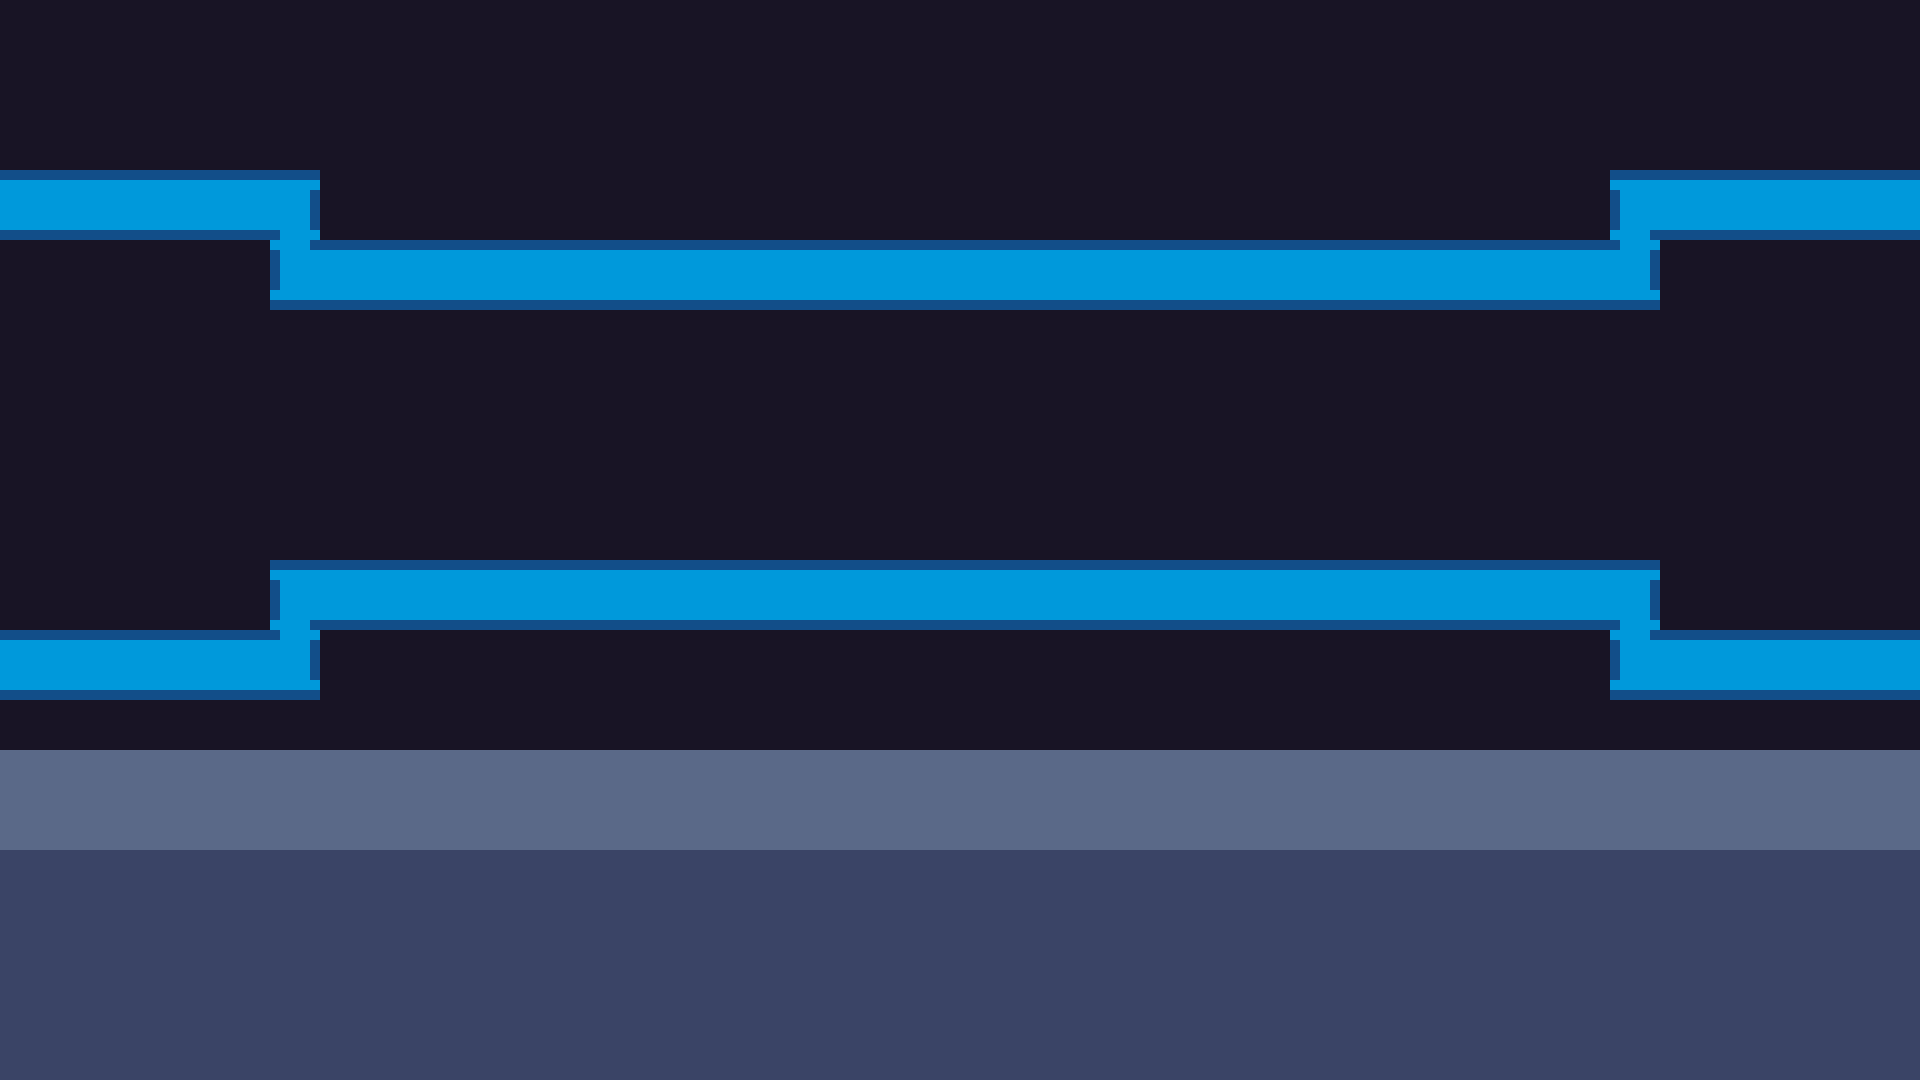
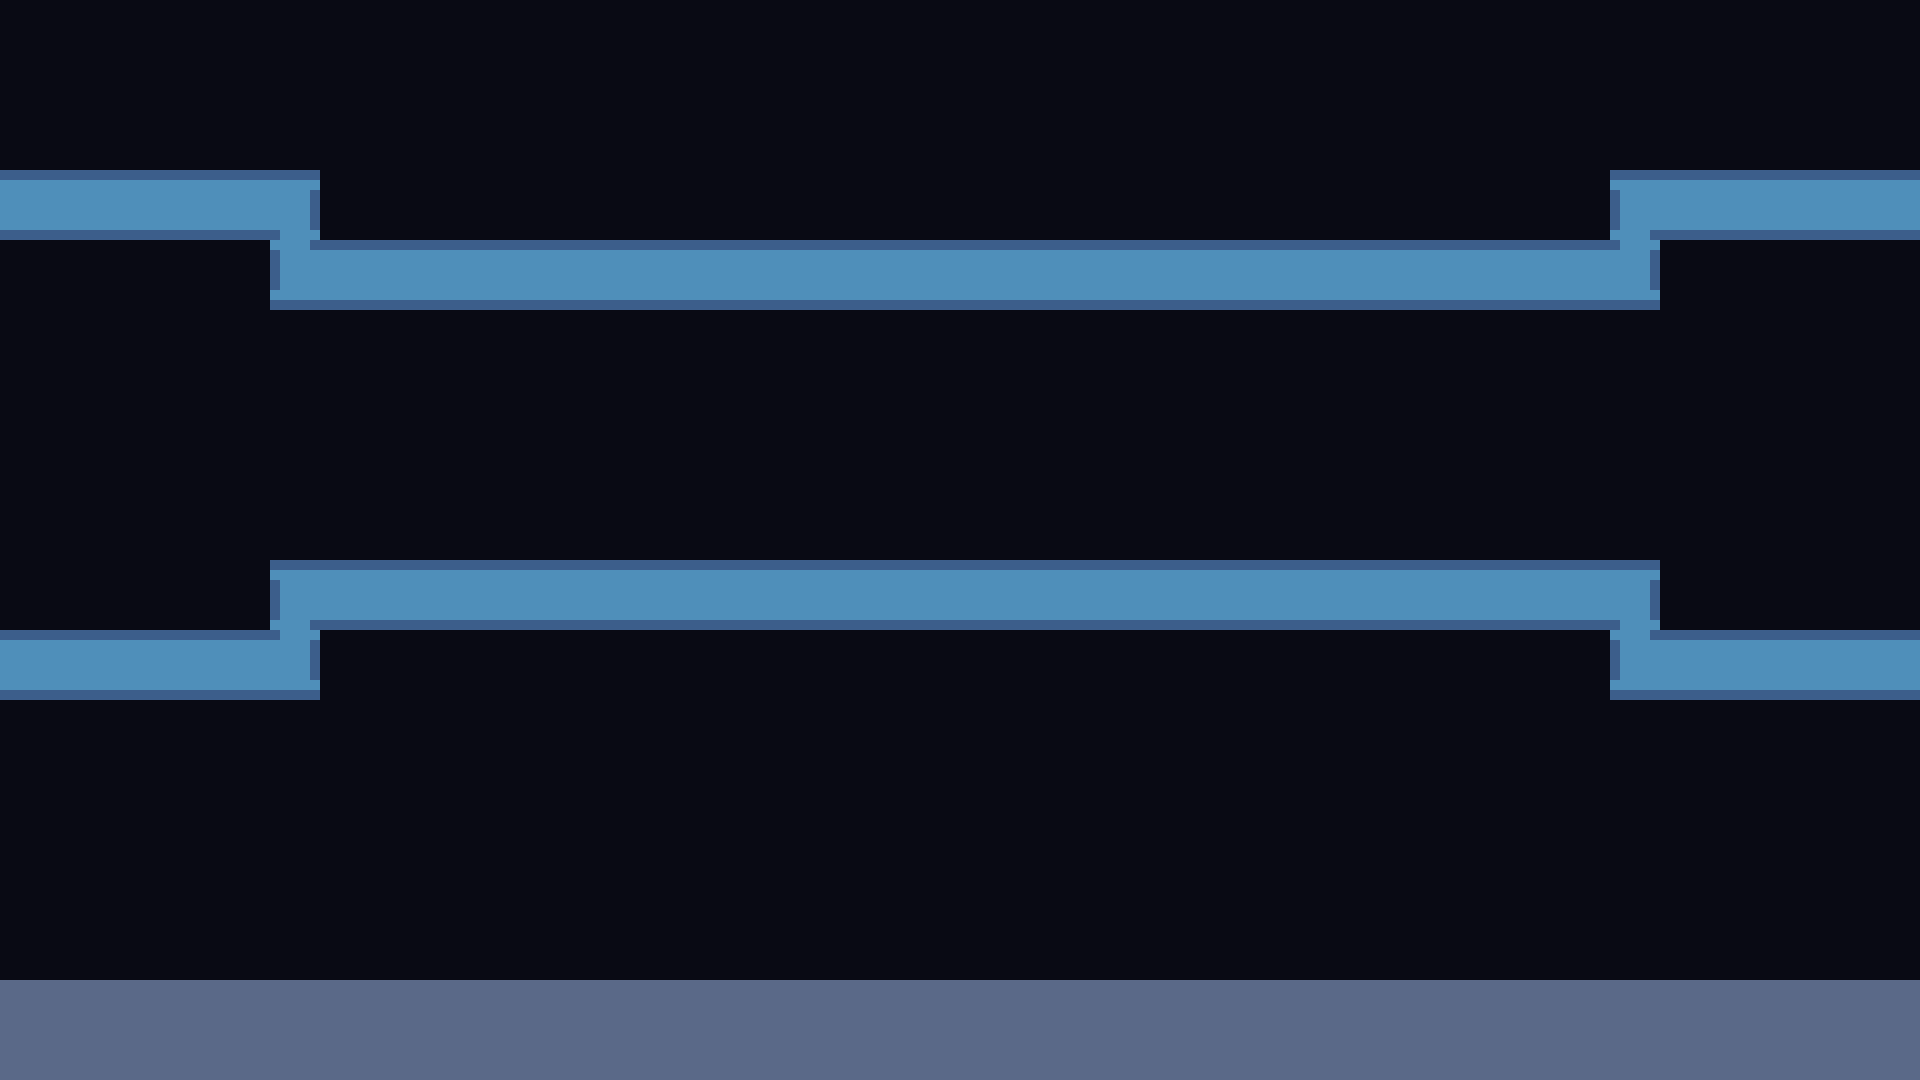
Change default BG sprite, try to fix input problems, delete unused code, move dummy maps to another folder (currently can't be used)

diff --git a/Kata-neo/Core/Entitites/Player.cs b/Kata-neo/Core/Entitites/Player.cs
@@ -48,7 +48,6 @@ namespace KataNeo.Entitites
         /// <summary>
         /// Update input for a player using a keyboard
         /// </summary>
-        /// <param name="keyboard">Keyboard state</param>
         public void KeyboardUpdate(GameTime gameTime)
         {
             //Horizontal movement
@@ -73,7 +72,6 @@ namespace KataNeo.Entitites
         /// <summary>
         /// Update input for a player using a gamepad
         /// </summary>
-        /// <param name="gamePad">State of gamepad player is currently using</param>
         public void GamepadUpdate(GameTime gameTime)
         {
             //Horizontal movement

diff --git a/Kata-neo/Core/EntityManager.cs b/Kata-neo/Core/EntityManager.cs
@@ -49,6 +49,7 @@ namespace KataNeo
                 anims.Add(new Anim(sheets.Item1[i], GetIntervals(sheets.Item2[i])));
             }
             if (anims.Count == 0) throw new System.Exception("There are no animations in directory");
+            //Shorten keywords for easier animation referencing
             List<string> keys = new List<string>();
             foreach (var dir in sheets.Item2)
             {

diff --git a/Kata-neo/Custom/README.md b/Kata-neo/Custom/README.md
@@ -1,0 +1,3 @@
+# Map making
+
+This section will be written soon
